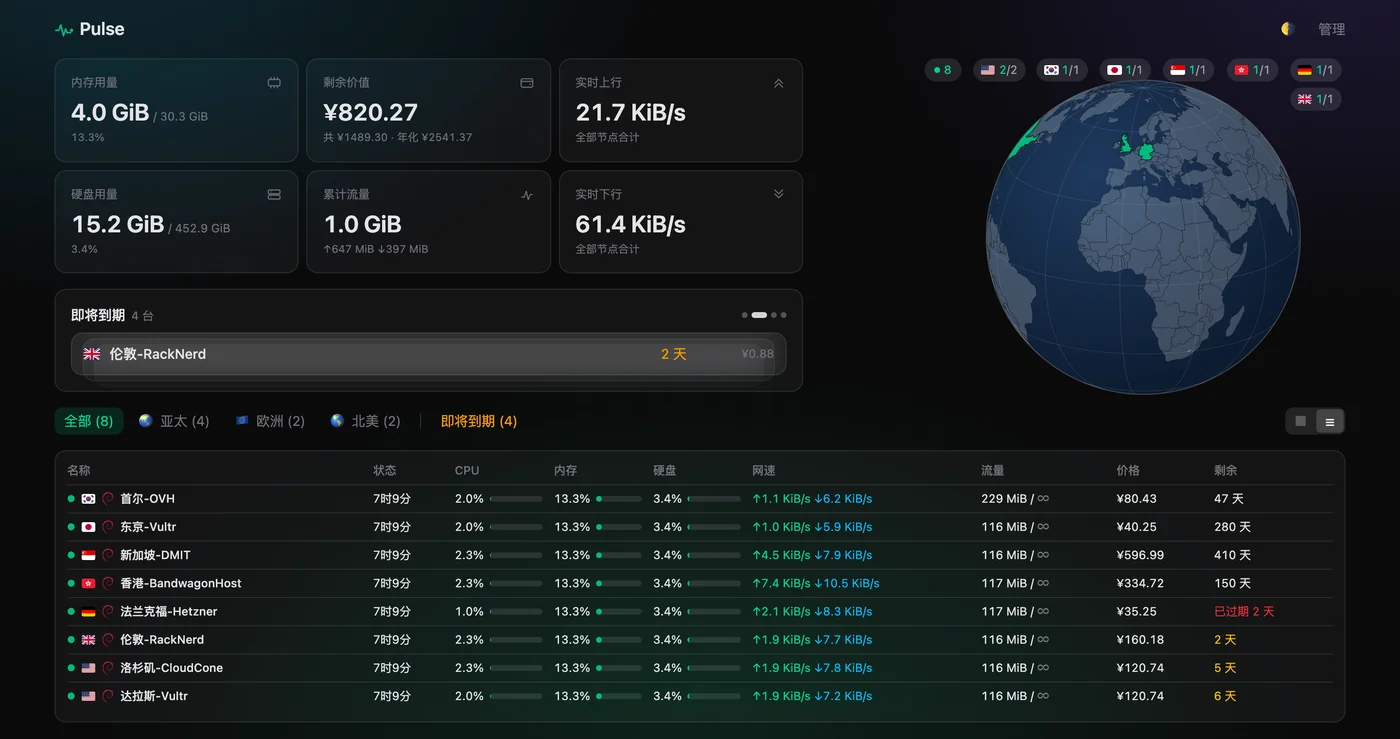
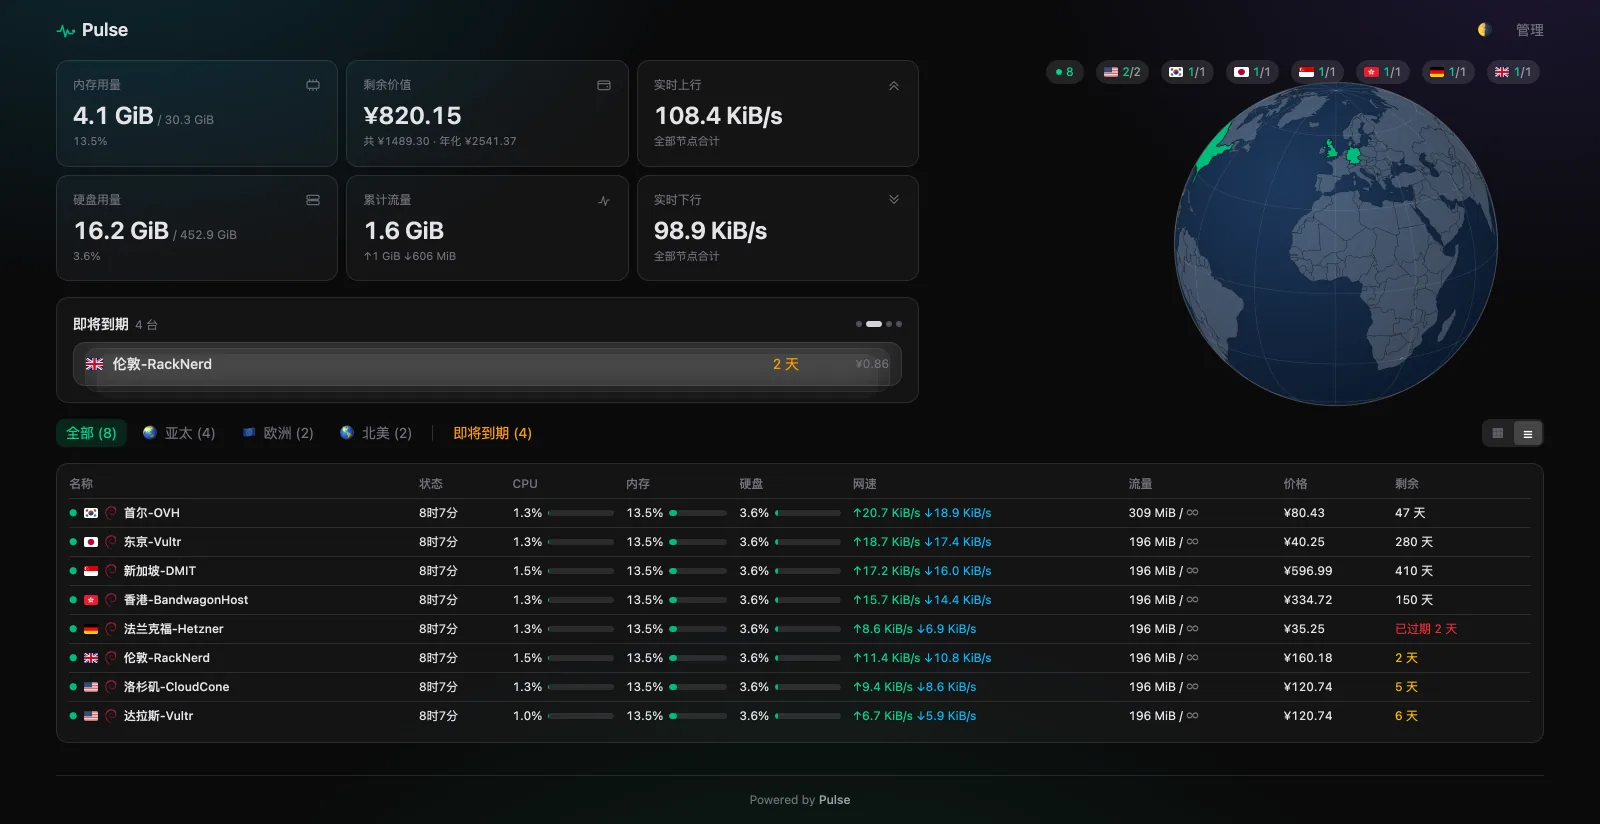
重截四张界面图：去掉访客条里的 IP，裁掉列表页底部空白
访客信息条会把来访 IP 印在图上，宣传图里不该有。组件自带
pulse.visitor.dismissed 开关，截图前置上即可。

列表页只有 8 台机器、撑不满视口，之前底下三成是纯黑。改成截到内容底部。

现在四张里三张是 1600x1000，列表页 1600x824。

diff --git a/.vitepress/theme/HeroShots.vue b/.vitepress/theme/HeroShots.vue
@@ -10,15 +10,16 @@ import { onMounted, onUnmounted, ref } from 'vue'
  *
  * 不放手机截图 —— 它的宽高比和另外四张差太多，混在一起会让容器高度乱跳。
  *
- * 四张图的比例并不一致（1.60 / 1.44 / 1.89）。所以边框和阴影画在 <img> 上而不是
+ * 四张里有三张是 1600x1000，列表页天生矮一些（1600x824）。所以边框和阴影
+ * 画在 <img> 上而不是
  * 外层框上，配 object-fit: contain：每张都按自己的比例完整显示、不裁掉内容，
  * 外层框的高度是写死的，切换时页面不会跳。
  */
 const shots = [
   { src: '/shots/home-dark.webp', alt: 'Pulse 首页（深色）', w: 1600, h: 1000 },
   { src: '/shots/home-light.webp', alt: 'Pulse 首页（浅色）', w: 1600, h: 1000 },
-  { src: '/shots/detail.webp', alt: '单机详情：硬件、系统、六张图表', w: 1400, h: 972 },
-  { src: '/shots/list.webp', alt: '列表视图：一行一台', w: 1400, h: 739 },
+  { src: '/shots/detail.webp', alt: '单机详情：硬件、系统、六张图表', w: 1600, h: 1000 },
+  { src: '/shots/list.webp', alt: '列表视图：一行一台', w: 1600, h: 824 },
 ]
 
 const INTERVAL = 4500
